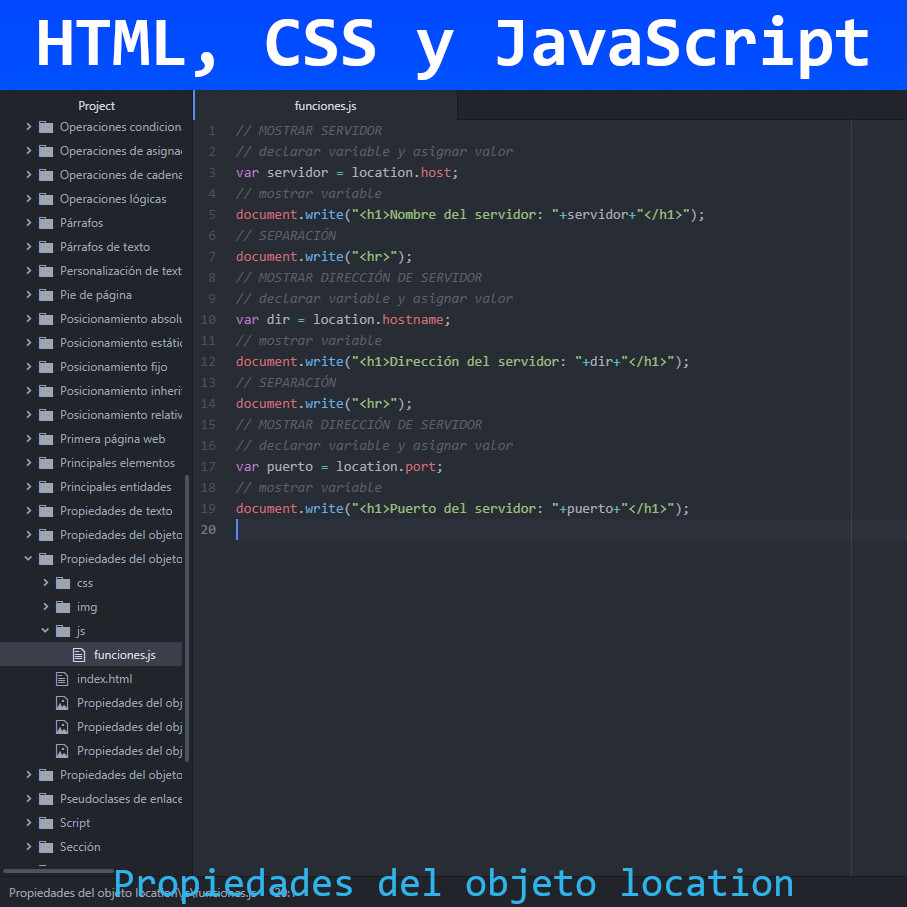
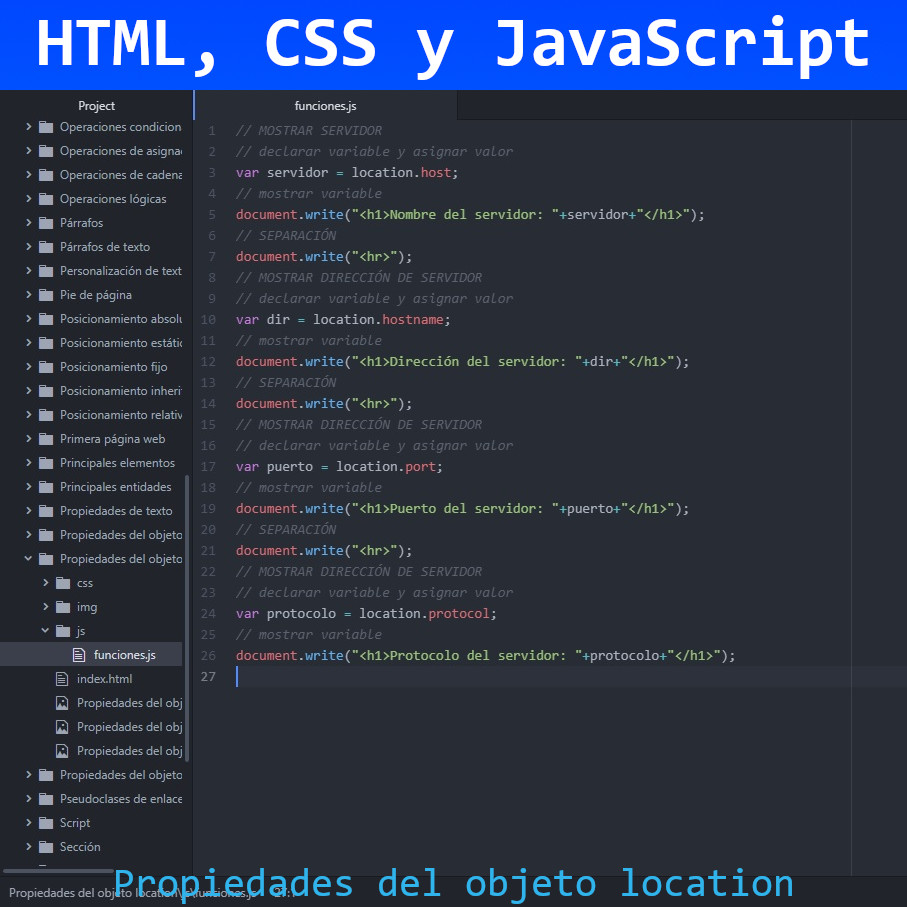
Propiedades del objeto location
Propiedades del objeto location en JavaScript

Changed region(s): [[0.247, 0.5865, 0.6174, 0.7409], [0.6483, 0.71, 0.8026, 0.7409]]

diff --git a/HTML, CSS y JavaScript/Propiedades del objeto location/js/funciones.js b/HTML, CSS y JavaScript/Propiedades del objeto location/js/funciones.js
@@ -17,3 +17,10 @@ document.write("<hr>");
 var puerto = location.port;
 // mostrar variable
 document.write("<h1>Puerto del servidor: "+puerto+"</h1>");
+// SEPARACIÓN
+document.write("<hr>");
+// MOSTRAR DIRECCIÓN DE SERVIDOR
+// declarar variable y asignar valor
+var protocolo = location.protocol;
+// mostrar variable
+document.write("<h1>Protocolo del servidor: "+protocolo+"</h1>");
